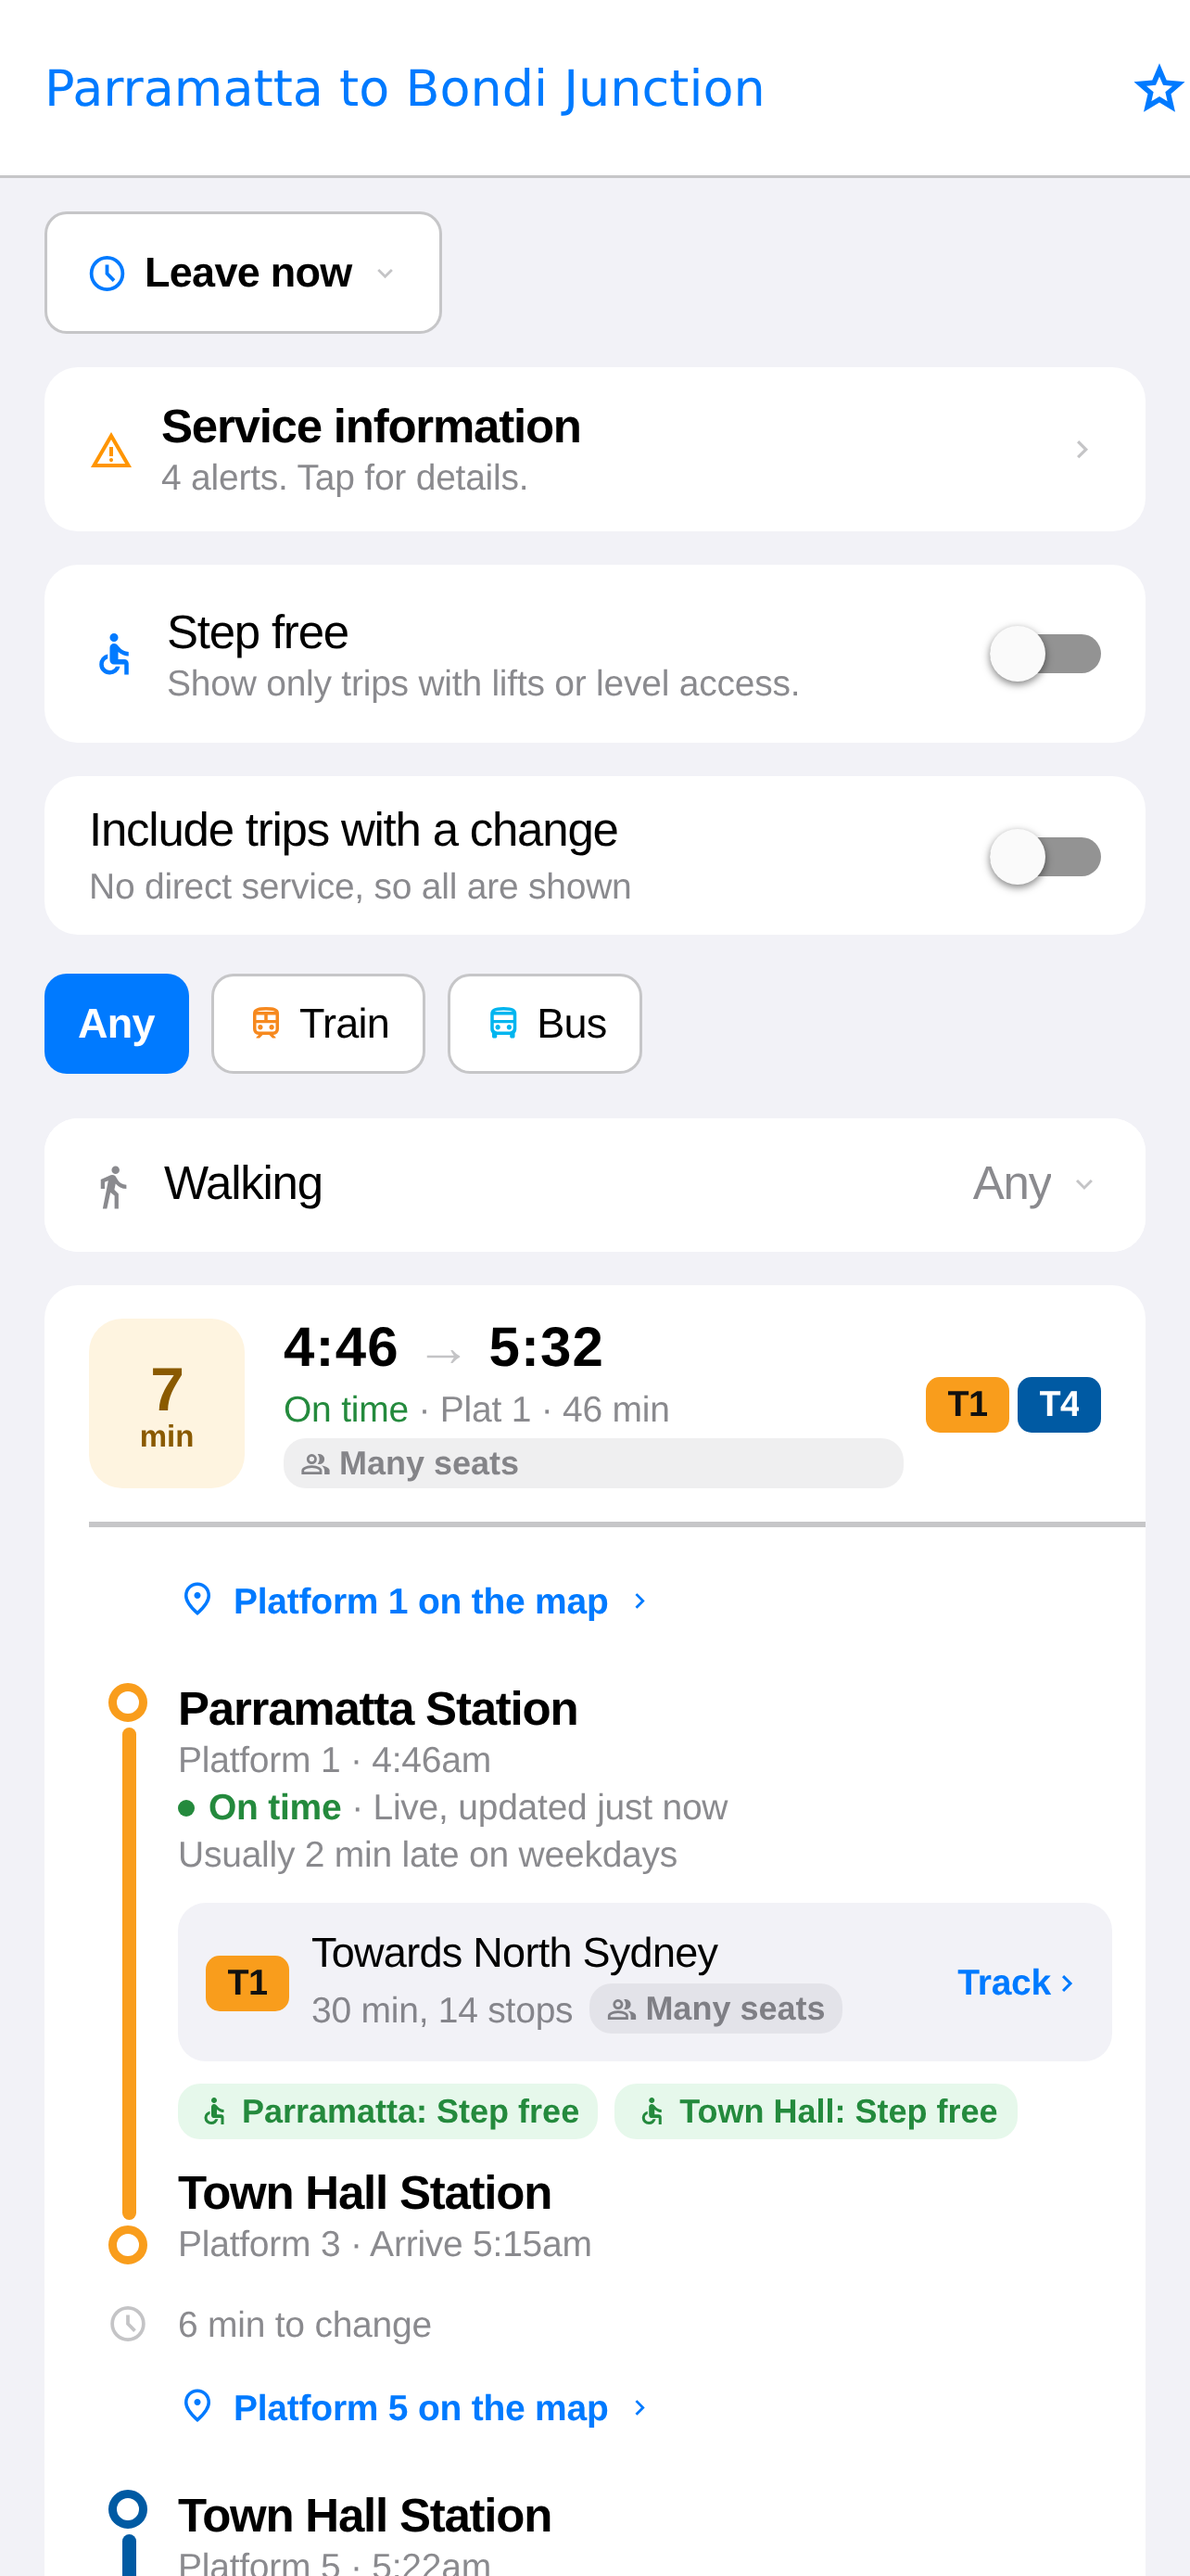
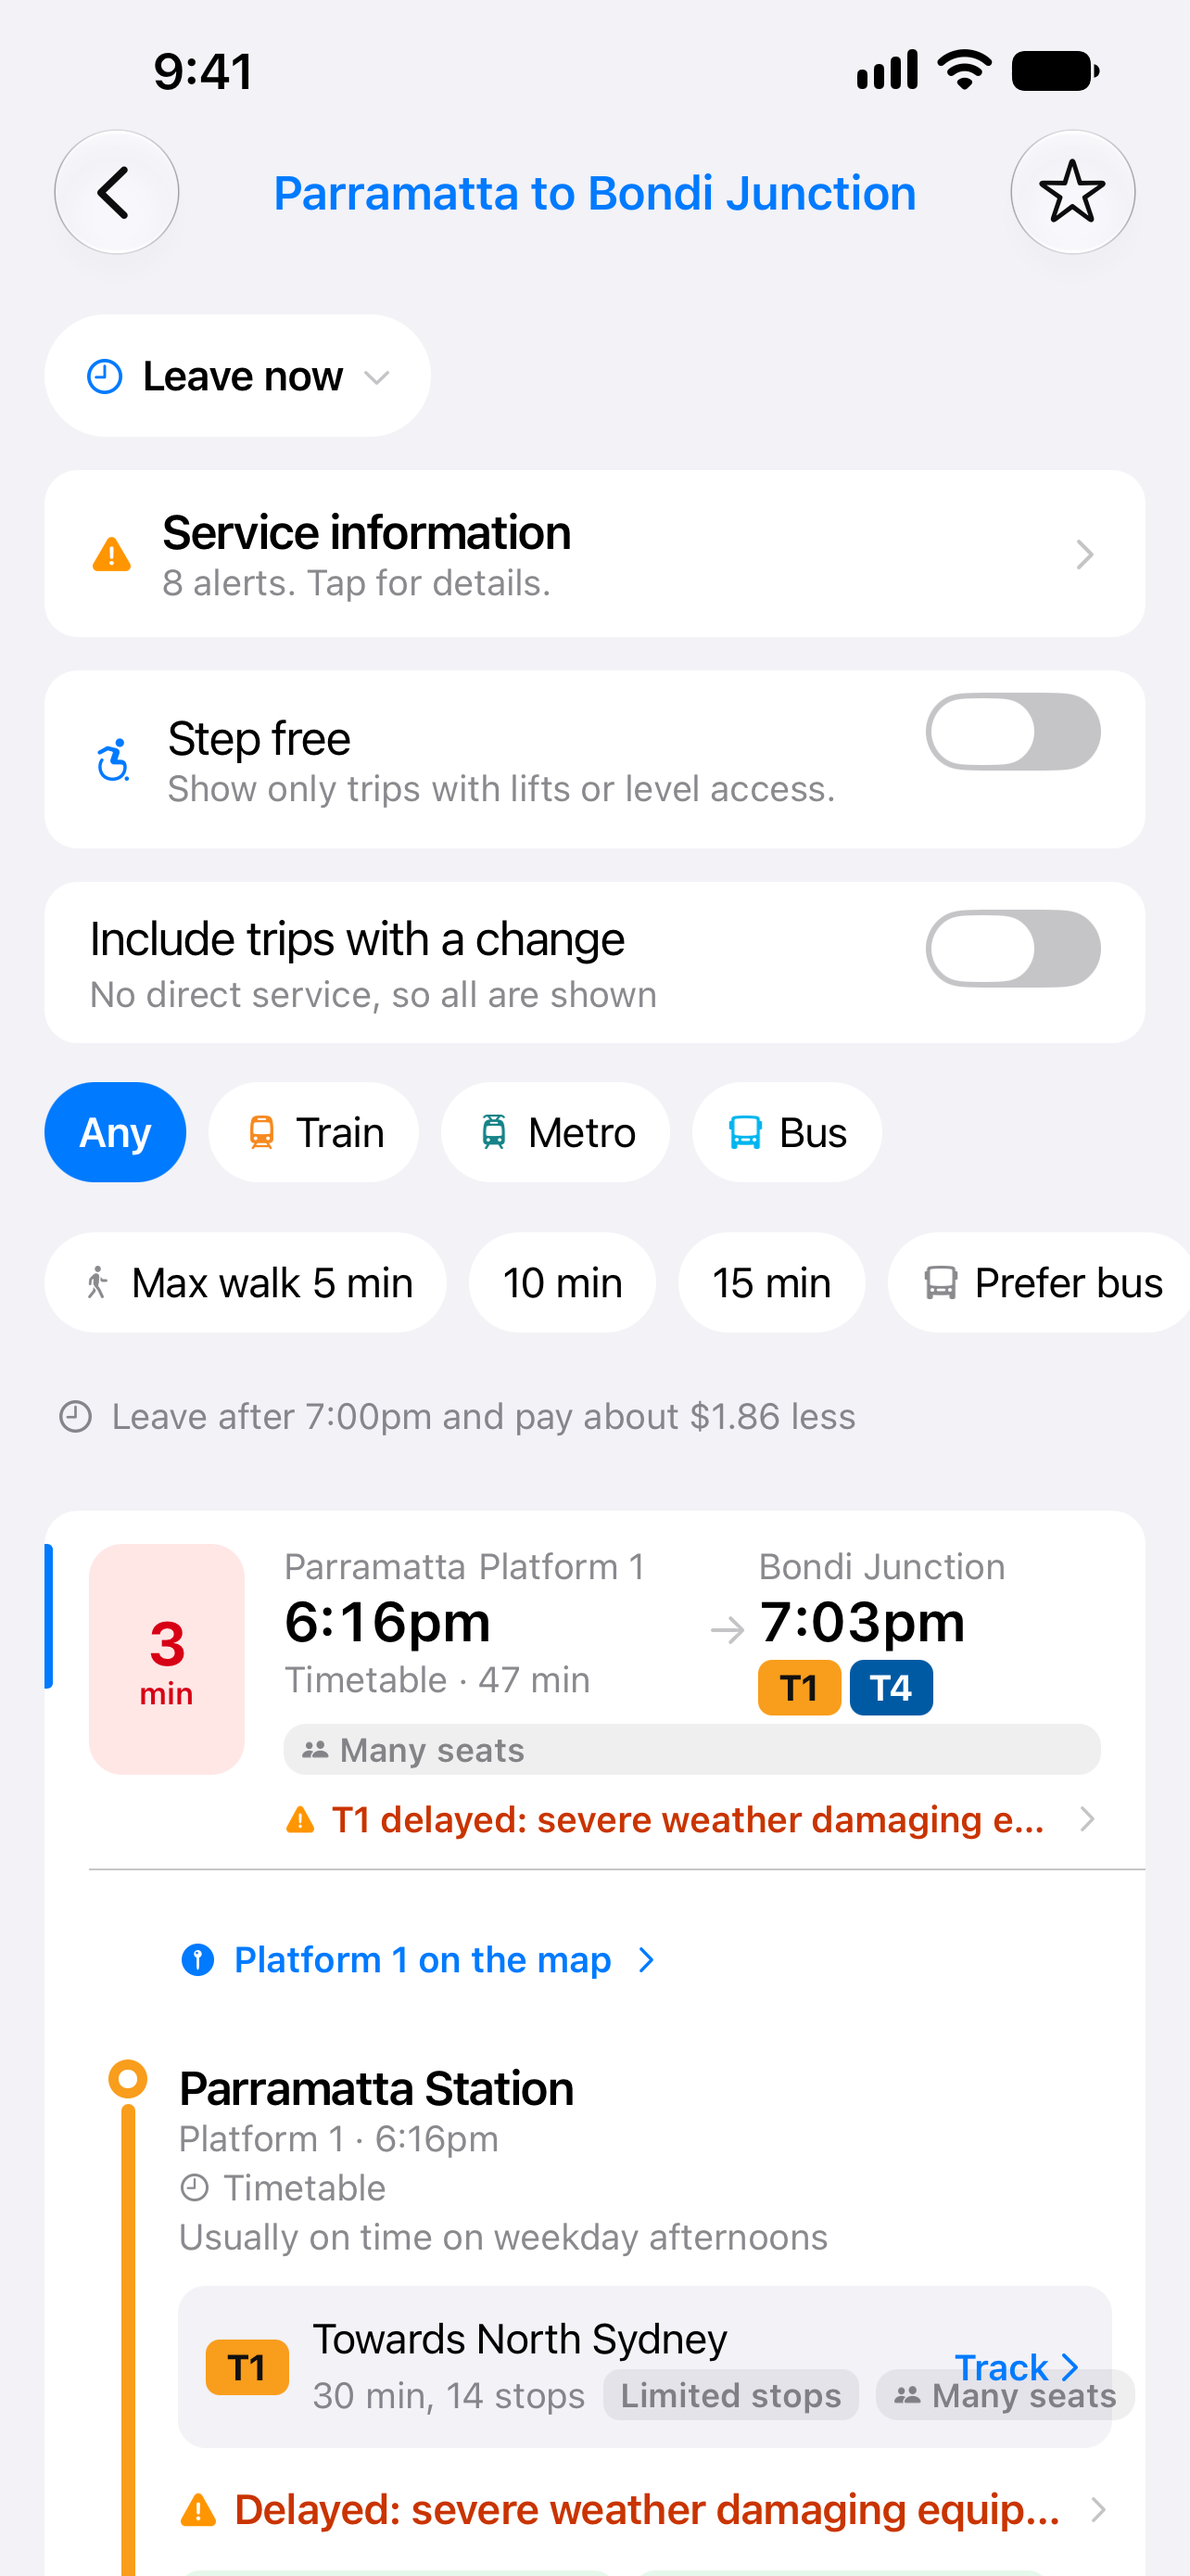
Records (3 Nov, 6:20 PM): iPhone 6.9 and 6.5 inch App Store screenshots reshot from the iOS Simulator (build-215-rc compiled for the simulator only, no build) and uploaded, all Complete; Duo set unchanged. Screenshots, store README, CHANGELOG, TEST_PLAN, STORE_READINESS. Nothing submitted.

diff --git a/CHANGELOG.md b/CHANGELOG.md
@@ -4,6 +4,12 @@ What changed in Transport, newest first. Times are Sydney time. Build numbers, u
 
 ## 3 Nov 2026
 
+### iPhone App Store screenshots from the iOS Simulator (3 Nov, 5:56 PM and 6:20 PM; App Store Connect only, no build)
+* Owner, 3:56 PM: "Reshoot from sim". The 6.9 inch (APP_IPHONE_67, 1320 x 2868) and 6.5 inch (APP_IPHONE_65, 1284 x 2778) sets of version 1.0.0 (en-AU) now hold 5 real simulator screenshots each instead of the 27 Oct web export: 01 Home (home Parramatta, work Wynyard, phone at Bondi Junction), 02 Town Hall departures (Trains), 03 Parramatta to Bondi Junction trip, 04 Ask "next train Parramatta to Central", 05 Check my trip before I go. Same screens and order as before. App Store Connect shows all 10 as Complete; the old 10 are deleted. Files in store/apple/screenshots/iphone-6.9 and iphone-6.5.
+* How: build-215-rc (0855b7f) compiled for the iOS Simulator only on a GitHub Mac (Release, unsigned, updates off; no archive, no upload, no version bump), run 41581636288; Maestro set up Home and Work and tapped the screens; live data from production; status bar 9:41, full signal and battery, light mode. 6.9 inch on an iPhone 17 Pro Max simulator (5:41 to 5:48 PM), 6.5 inch on an iPhone 14 Plus simulator (6:07 to 6:17 PM), both iOS 27.0. The throwaway branch iphone-shots-3nov is deleted; no GitHub secrets were added.
+* Not changed: the iPhone Duo set (web export of 27 Oct). The Duo simulator opens folded only, so its open screen cannot be shot there. Apple Watch set (3 Nov) unchanged.
+* Not submitted. The owner waits for the account migration to the organisation before submitting.
+
 ### Privacy policy: background location sentence for build 215 (3 Nov, 4:00 PM; LIVE on transportsydney.app, Pages deployment 9fbd78b4, roll back to 515eb805; owner approved 3:56 PM; no app or server change)
 * Owner's approval: Bidur, 3:56 PM, "Yes" to the App Store readiness list item 1.
 * `site/privacy/index.html` (Location) and its text copy `store/privacy-policy.md`: "The app never uses location in the background." became "The app uses location in the background only on a trip you started, for get off alerts and spoken alerts. That position stays on your phone, is not stored, and stops when the trip ends." Build 215 keeps location on in the background only for a trip the user started (spoken alerts in headphones with the phone locked, docs/VOICE_LOCKED.md), so the old sentence was untrue for it.

diff --git a/store/apple/screenshots/README.md b/store/apple/screenshots/README.md
@@ -1,5 +1,20 @@
 # iPhone store screenshots (uploaded to App Store Connect)
 
+iphone-6.9 and iphone-6.5: reshot on 3 Nov 2026 from the iOS Simulator (owner, 3:56 PM: "Reshoot from sim"). The real app, build-215-rc code with its JavaScript bundle, compiled for the simulator only (Release, unsigned, updates off; no archive, no upload, no version bump), on a GitHub Mac (Xcode 27.1, iOS 27.0), live data from production (api.transportsydney.app), light mode, status bar set to 9:41 with full signal and battery. Maestro tapped what a person taps (set up Home Parramatta and Work Wynyard, the Trains filter, typing in Ask). The 6.9 inch set was taken 5:41 to 5:48 PM on an iPhone 17 Pro Max simulator, the 6.5 inch set 6:07 to 6:17 PM on an iPhone 14 Plus simulator. Both replaced the 27 Oct web export sets in App Store Connect (en-AU, version 1.0.0), processed Complete. The throwaway harness lived on branch iphone-shots-3nov (deleted).
+
+iphone-duo: still the 27 Oct web export shots below. The iPhone Duo simulator opens folded only, so its open (inner) screen cannot be shot there.
+
+| Folder | Size | App Store Connect set |
+| --- | --- | --- |
+| iphone-6.9 | 1320 x 2868 | APP_IPHONE_67 (iPhone 6.9 inch), en-AU, 1.0.0, uploaded 3 Nov (simulator) |
+| iphone-6.5 | 1284 x 2778 | APP_IPHONE_65 (iPhone 6.5 inch), en-AU, 1.0.0, uploaded 3 Nov (simulator) |
+| iphone-duo (inner-*) | 2007 x 2853 (669 x 951 points, scale 3) | APP_IPHONE_DUO, open (inner display), first five in the set, en-AU, 1.0.0, uploaded 27 Oct (web export) |
+| iphone-duo (outer-*) | 1398 x 2034 (466 x 678 points, scale 3) | APP_IPHONE_DUO, closed (outer display), last five in the set, en-AU, 1.0.0, uploaded 27 Oct (web export) |
+
+Screens: 01 Home (home Parramatta, work Wynyard, phone placed at Bondi Junction), 02 Town Hall departures (Trains), 03 Parramatta to Bondi Junction trip, 04 Ask "next train Parramatta to Central", 05 Check my trip before I go. No owner stations, no personal data.
+
+## 27 Oct web export (the Duo set, and the earlier iPhone sets)
+
 Reshot on 27 Oct 2026 between 4:33 and 4:42 AM Sydney with live data from production (api.transportsydney.app), light mode, from the web export of main 108a512, by app/test/e2e/store-shots.mjs. These replace the 25 Oct sets, which showed the owner's own stations.
 
 | Folder | Size | App Store Connect set |

diff --git a/docs/STORE_READINESS.md b/docs/STORE_READINESS.md
@@ -20,7 +20,7 @@ Listing texts: store/apple/listing.md, store/google/listing.md. Privacy answers:
 | Price and availability | DONE | Free, Australia only |
 | Export compliance | DONE | usesNonExemptEncryption false in app.json; build 201 reports false, so nothing to answer |
 | App Review contact and notes | DONE | Bidur Khatri, contact@fintex.au, his mobile (on file in App Store Connect, App Review Information; not written here because the repo is public; change it there if another number should get Apple's calls). Notes rewritten for the Expo build |
-| Screenshots 6.9 inch and 6.5 inch | DONE | 5 each, uploaded |
+| Screenshots 6.9 inch and 6.5 inch | DONE | 5 each, from the iOS Simulator (build-215-rc), uploaded 3 Nov; store/apple/screenshots/ |
 | App Privacy | BIDUR | No API for it. 5 minutes of clicks, steps in docs/STORE_PRIVACY.md |
 | Test build 201 on a real iPhone | BIDUR | TestFlight: Home, Plan, Ask, Start trip (Live Activity), a widget, a watched service alert |
 | App Group group.com.maisysen.nswtransport | BUILD | Registered and ticked on both App IDs on 25 Oct (commit 9f739d0): eas.json production now builds with IOS_APP_GROUP=1 and buildNumber 202, so widgets see saved trips and starred stops from build 202 |

diff --git a/docs/TEST_PLAN.md b/docs/TEST_PLAN.md
@@ -2,6 +2,9 @@
 
 How Transport is tested, what runs where, and the current results. Updated 25 Oct 2026, 5:25 PM Sydney time.
 
+## iPhone store screenshots from the iOS Simulator (3 Nov, App Store Connect only)
+* Every picture looked at before upload (live times loaded, no Not tracking rows, no owner stations, 9:41 status bar). After upload the API lists 5 per set at 1320 x 2868 and 1284 x 2778, all Complete, in the order 01 to 05; version 1.0.0 still Prepare for Submission. No app code changed, so no app test run.
+
 ## Privacy policy background location sentence (3 Nov, 4:00 PM, site only)
 * `backend/test/public-site.test.mjs` 8 of 8 pass. After the Pages deploy (9fbd78b4) https://transportsydney.app/privacy/ answered 200 with the new sentence and "Updated 3 November 2026", and without the old sentence; /sitemap.xml shows lastmod 2026-11-03.
 
